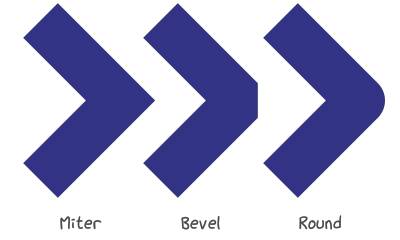
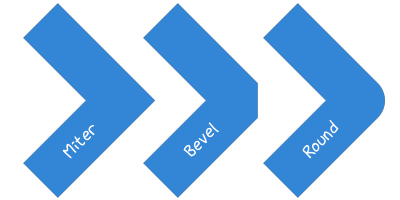
adjust samples for dark theme

diff --git a/examples/rtd_demo_images/line_styles.py b/examples/rtd_demo_images/line_styles.py
@@ -14,7 +14,7 @@ def demo_line_cap():
         family='xkcd', size=18, color='white')
 
     line_style = viren2d.LineStyle(
-        width=29, color='navy-blue!80')
+        width=29, color='azure!80')
 
     y = 20
     line_style.cap = 'butt'
@@ -53,16 +53,16 @@ def demo_line_join():
     # Set up empty canvas:
     painter = viren2d.Painter()
     canvas_width = 400
-    canvas_height = 240
+    canvas_height = 200
     painter.set_canvas_rgb(
         width=canvas_width, height=canvas_height, color='white!0')
 
     # Style specifications:
     text_style = viren2d.TextStyle(
-        family='xkcd', size=18, color=(0.3, 0.3, 0.3))
+        family='xkcd', size=18, color='white')
 
     line_style = viren2d.LineStyle(
-        width=49, color='navy-blue!80')
+        width=49, color='azure!80')
     
     # Draw polygons with different line join styles:
     poly = [(40, 20), (120, 100), (40, 180)]
@@ -70,24 +70,24 @@ def demo_line_join():
     painter.draw_polygon(poly, line_style)
 
     painter.draw_text(
-        [str(line_style.join)], (80, 210),
-        'north', text_style)
+        [str(line_style.join)], (80, 140),
+        'center', text_style, rotation=-45)
 
     poly = [(p[0] + 120, p[1]) for p in poly]
     line_style.join = 'bevel'
     painter.draw_polygon(poly, line_style)
 
     painter.draw_text(
-        [str(line_style.join)], (200, 210),
-        'north', text_style)
+        [str(line_style.join)], (200, 140),
+        'center', text_style, rotation=-45)
 
     poly = [(p[0] + 120, p[1]) for p in poly]
     line_style.join = 'round'
     painter.draw_polygon(poly, line_style)
 
     painter.draw_text(
-        [str(line_style.join)], (320, 210),
-        'north', text_style)
+        [str(line_style.join)], (320, 140),
+        'center', text_style, rotation=-45)
 
     # Return the visualization as a NumPy buffer (let NumPy take care of
     # the memory copy):

diff --git a/src/bindings/bindings_imagebuffer.cpp b/src/bindings/bindings_imagebuffer.cpp
@@ -142,10 +142,12 @@ void RegisterImageBuffer(py::module &m) {
   py::class_<ImageBuffer> imgbuf(m, "ImageBuffer", py::buffer_protocol(), R"docstr(
         Encapsulates image data.
 
-        This class is used to pass images between the consuming
+        This class is primarily used to pass images between the client
         application and ``viren2d``. Supported data types are:
         :class:`numpy.uint8`, :class:`numpy.int16`, :class:`numpy.int32`,
         :class:`numpy.float32`, and :class:`numpy.float64`.
+        Additionally, it provides several basic image manipulation methods
+        to adjust an image quickly for visualization.
 
         The *ImageBuffer* implements the standard Python buffer protocol
         and can thus be swiftly converted to/from other buffer types,

diff --git a/examples/rtd_demo_images/markers.py b/examples/rtd_demo_images/markers.py
@@ -5,12 +5,13 @@ import viren2d
 def demo_markers():
     # Set up empty canvas:
     painter = viren2d.Painter()
-    painter.set_canvas_rgb(width=600, height=310, color='white!0')
+    painter.set_canvas_rgb(
+        width=600, height=310, color=viren2d.RGBa(26, 28, 29))
 
     # Style specifications:
-    text_style = viren2d.TextStyle(color=(0.3, 0.3, 0.3))
+    text_style = viren2d.TextStyle(color=viren2d.RGBa(192, 186, 177))
     marker_style = viren2d.MarkerStyle(
-        size=25, thickness=1, color='navy-blue')
+        size=25, thickness=1, color='azure!80')
 
     def prepare_display_row(y1, y2, y3):
         text_style.family = 'xkcd'

diff --git a/examples/rtd_demo_images/primitives.py b/examples/rtd_demo_images/primitives.py
@@ -68,7 +68,7 @@ def demo_ellipses():
 def demo_arrows():
     # Set up empty canvas:
     painter = viren2d.Painter()
-    painter.set_canvas_rgb(400, 200, color='white!0')
+    painter.set_canvas_rgb(height=200, width=400, color='white!0')
 
     # Style specification:
     arrow_style = viren2d.ArrowStyle(

diff --git a/examples/render_rtd_images.py b/examples/render_rtd_images.py
@@ -93,4 +93,4 @@ def render_rtd_cheatsheets(show_images: bool, save_images: bool):
 
 if __name__ == '__main__':
     render_rtd_demos(True, True)
-    render_rtd_cheatsheets(True, True)
+    # render_rtd_cheatsheets(True, True)

diff --git a/docs/source/tutorial/draw-markers.rst b/docs/source/tutorial/draw-markers.rst
@@ -19,7 +19,7 @@ This visualization has been created with the following Python code:
    .. literalinclude:: ../../../examples/rtd_demo_images/markers.py
       :language: python
       :emphasize-lines: 3-4, 35, 41
-      :lines: 10-61
+      :lines: 11-62
       :linenos:
       :dedent: 4
 
